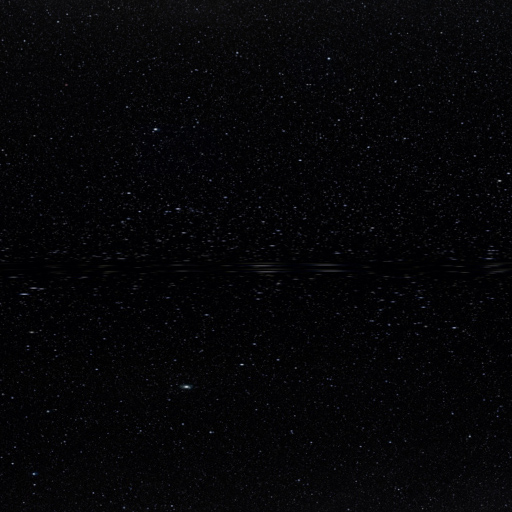
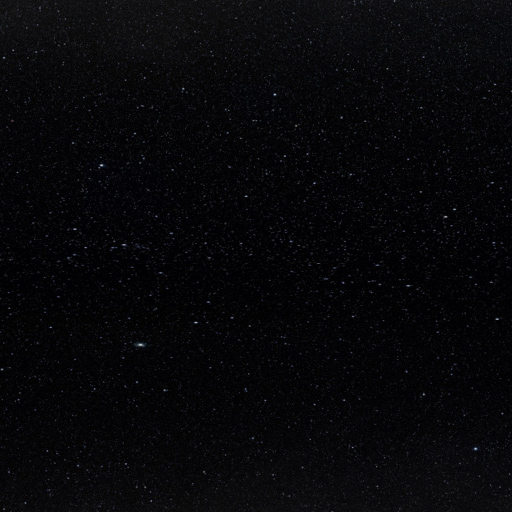
Changing the top texture of the skybox

diff --git a/src/solar-system/solar-system-starter.ts b/src/solar-system/solar-system-starter.ts
@@ -56,6 +56,7 @@ export class SolarSystemStarter extends Boilerplate {
 
         this.buildPlanetOptions();
         this.resume();
+        this.createSkybox();
 
         this.controls = new TrackballControls(this.camera, this.renderer.domElement);
 
@@ -80,6 +81,8 @@ export class SolarSystemStarter extends Boilerplate {
             
         }, this);
         let skyBox = new Mesh(skyBoxGeometry, skyBoxMaterials);
+        skyBox.rotateOnAxis(new Vector3(1, 0, 0), Math.PI/2);
+        console.log(skyBox);
         this.scene.add(skyBox);
     }
 
